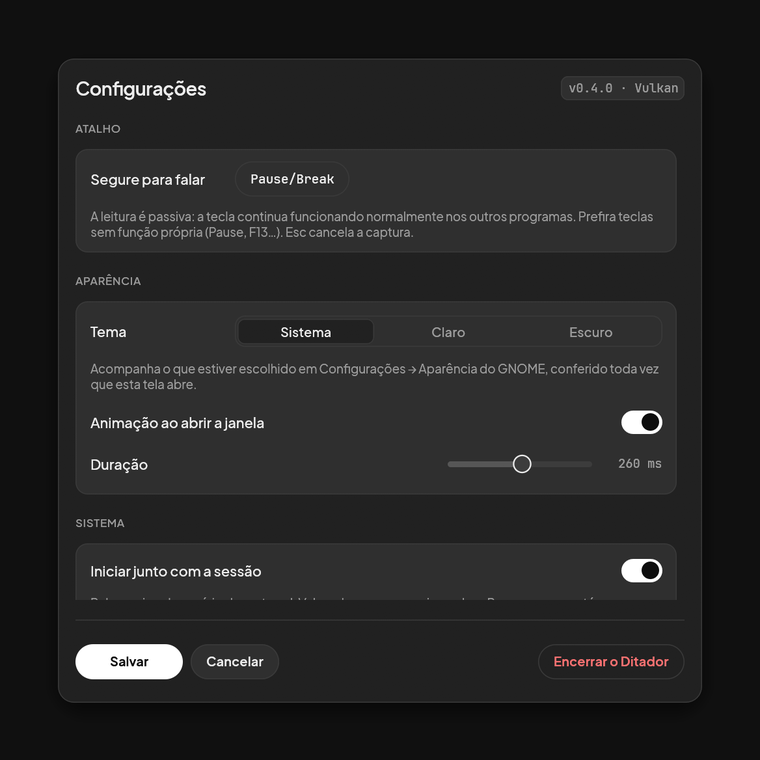
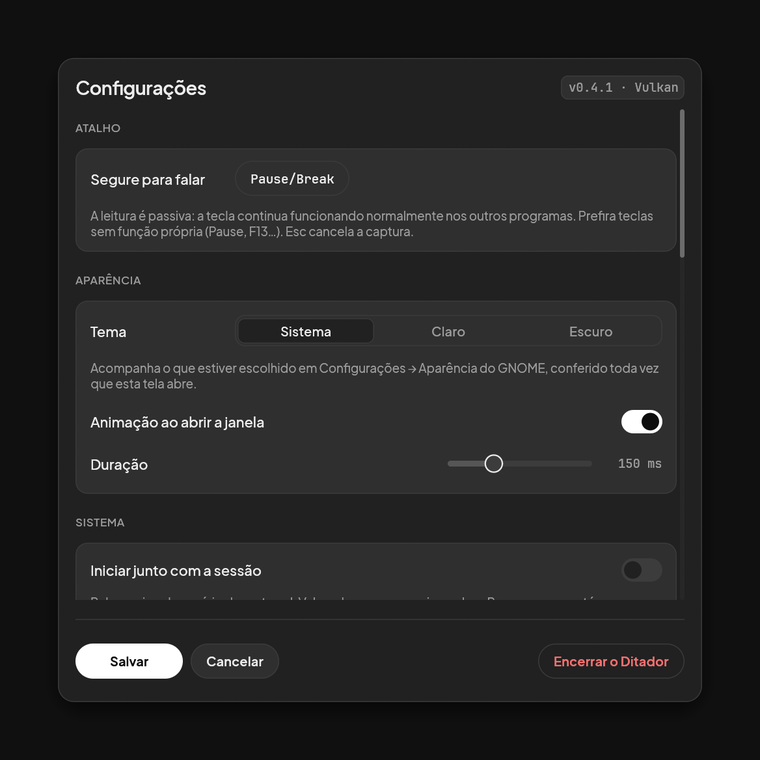
Versão 0.4.1: a tela de primeira execução não cabia na janela
Numa instalação limpa a primeira coisa que aparece é o aviso de que o modelo
ainda não foi baixado — e era justamente a mensagem mais alta que existe:
título, o caminho do arquivo por extenso ocupando três linhas, os botões e
ainda a nota de rodapé. A janela de erro tinha altura para menos que isso, e
a última linha saía cortada na borda.

O caminho agora aparece com `~` no lugar da pasta pessoal, o que o encurta
em uma linha, e a janela ganhou a altura que a mensagem mais alta pede.

Só apareceu porque a máquina foi zerada para instalar o pacote do zero: com
o modelo já baixado, esta tela nunca abre.

diff --git a/src/config.rs b/src/config.rs
@@ -30,6 +30,17 @@ pub fn models_dir() -> PathBuf {
     data_dir().join("models")
 }
 
+/// O caminho com a pasta pessoal trocada por `~`.
+///
+/// Serve para caber numa frase: escrito por extenso, o caminho do modelo sozinho
+/// ocupa três linhas da janela de erro.
+pub fn caminho_curto(caminho: &std::path::Path) -> String {
+    match dirs::home_dir().and_then(|casa| caminho.strip_prefix(casa).ok()) {
+        Some(resto) => format!("~/{}", resto.display()),
+        None => caminho.display().to_string(),
+    }
+}
+
 #[derive(Debug, Clone, PartialEq, Serialize, Deserialize)]
 #[serde(default)]
 pub struct Config {

diff --git a/src/state.rs b/src/state.rs
@@ -23,7 +23,9 @@ impl View {
             View::Hidden | View::Recording | View::Processing => [440.0, 178.0],
             View::Result => [620.0, 372.0],
             View::Settings => [660.0, 660.0],
-            View::Error => [500.0, 200.0],
+            // A mais alta das mensagens é a do modelo faltando: título, duas
+            // linhas de texto, os botões e ainda a nota de rodapé.
+            View::Error => [520.0, 228.0],
         };
         [w + pad, h + pad]
     }

diff --git a/src/stt.rs b/src/stt.rs
@@ -81,7 +81,7 @@ fn run(rx: Receiver<SttCmd>, events: Sender<SttEvent>) {
         if !model_path.exists() {
             let _ = events.send(SttEvent::LoadFailed(format!(
                 "O modelo de transcrição ainda não está aqui ({}).",
-                model_path.display()
+                crate::config::caminho_curto(&model_path)
             )));
             continue;
         }

diff --git a/README.md b/README.md
@@ -22,7 +22,7 @@
 **Com o pacote pronto** (Ubuntu 24.04 ou mais novo):
 
 ```bash
-sudo apt install ./ditador_0.4.0_amd64.deb      # ou ditador-cpu_… se a máquina não tem GPU
+sudo apt install ./ditador_0.4.1_amd64.deb      # ou ditador-cpu_… se a máquina não tem GPU
 sudo usermod -aG input $USER                    # para o atalho global ler o teclado
 ```
 
@@ -44,8 +44,8 @@ ditador --baixar-modelo
 **Gerando o pacote para outra máquina:**
 
 ```bash
-./empacotar.sh                # target/deb/ditador_0.4.0_amd64.deb  (Vulkan)
-./empacotar.sh cpu            # target/deb/ditador-cpu_0.4.0_amd64.deb
+./empacotar.sh                # target/deb/ditador_0.4.1_amd64.deb  (Vulkan)
+./empacotar.sh cpu            # target/deb/ditador-cpu_0.4.1_amd64.deb
 ```
 
 O pacote leva o programa, os ícones, o atalho do menu e o serviço de usuário do
